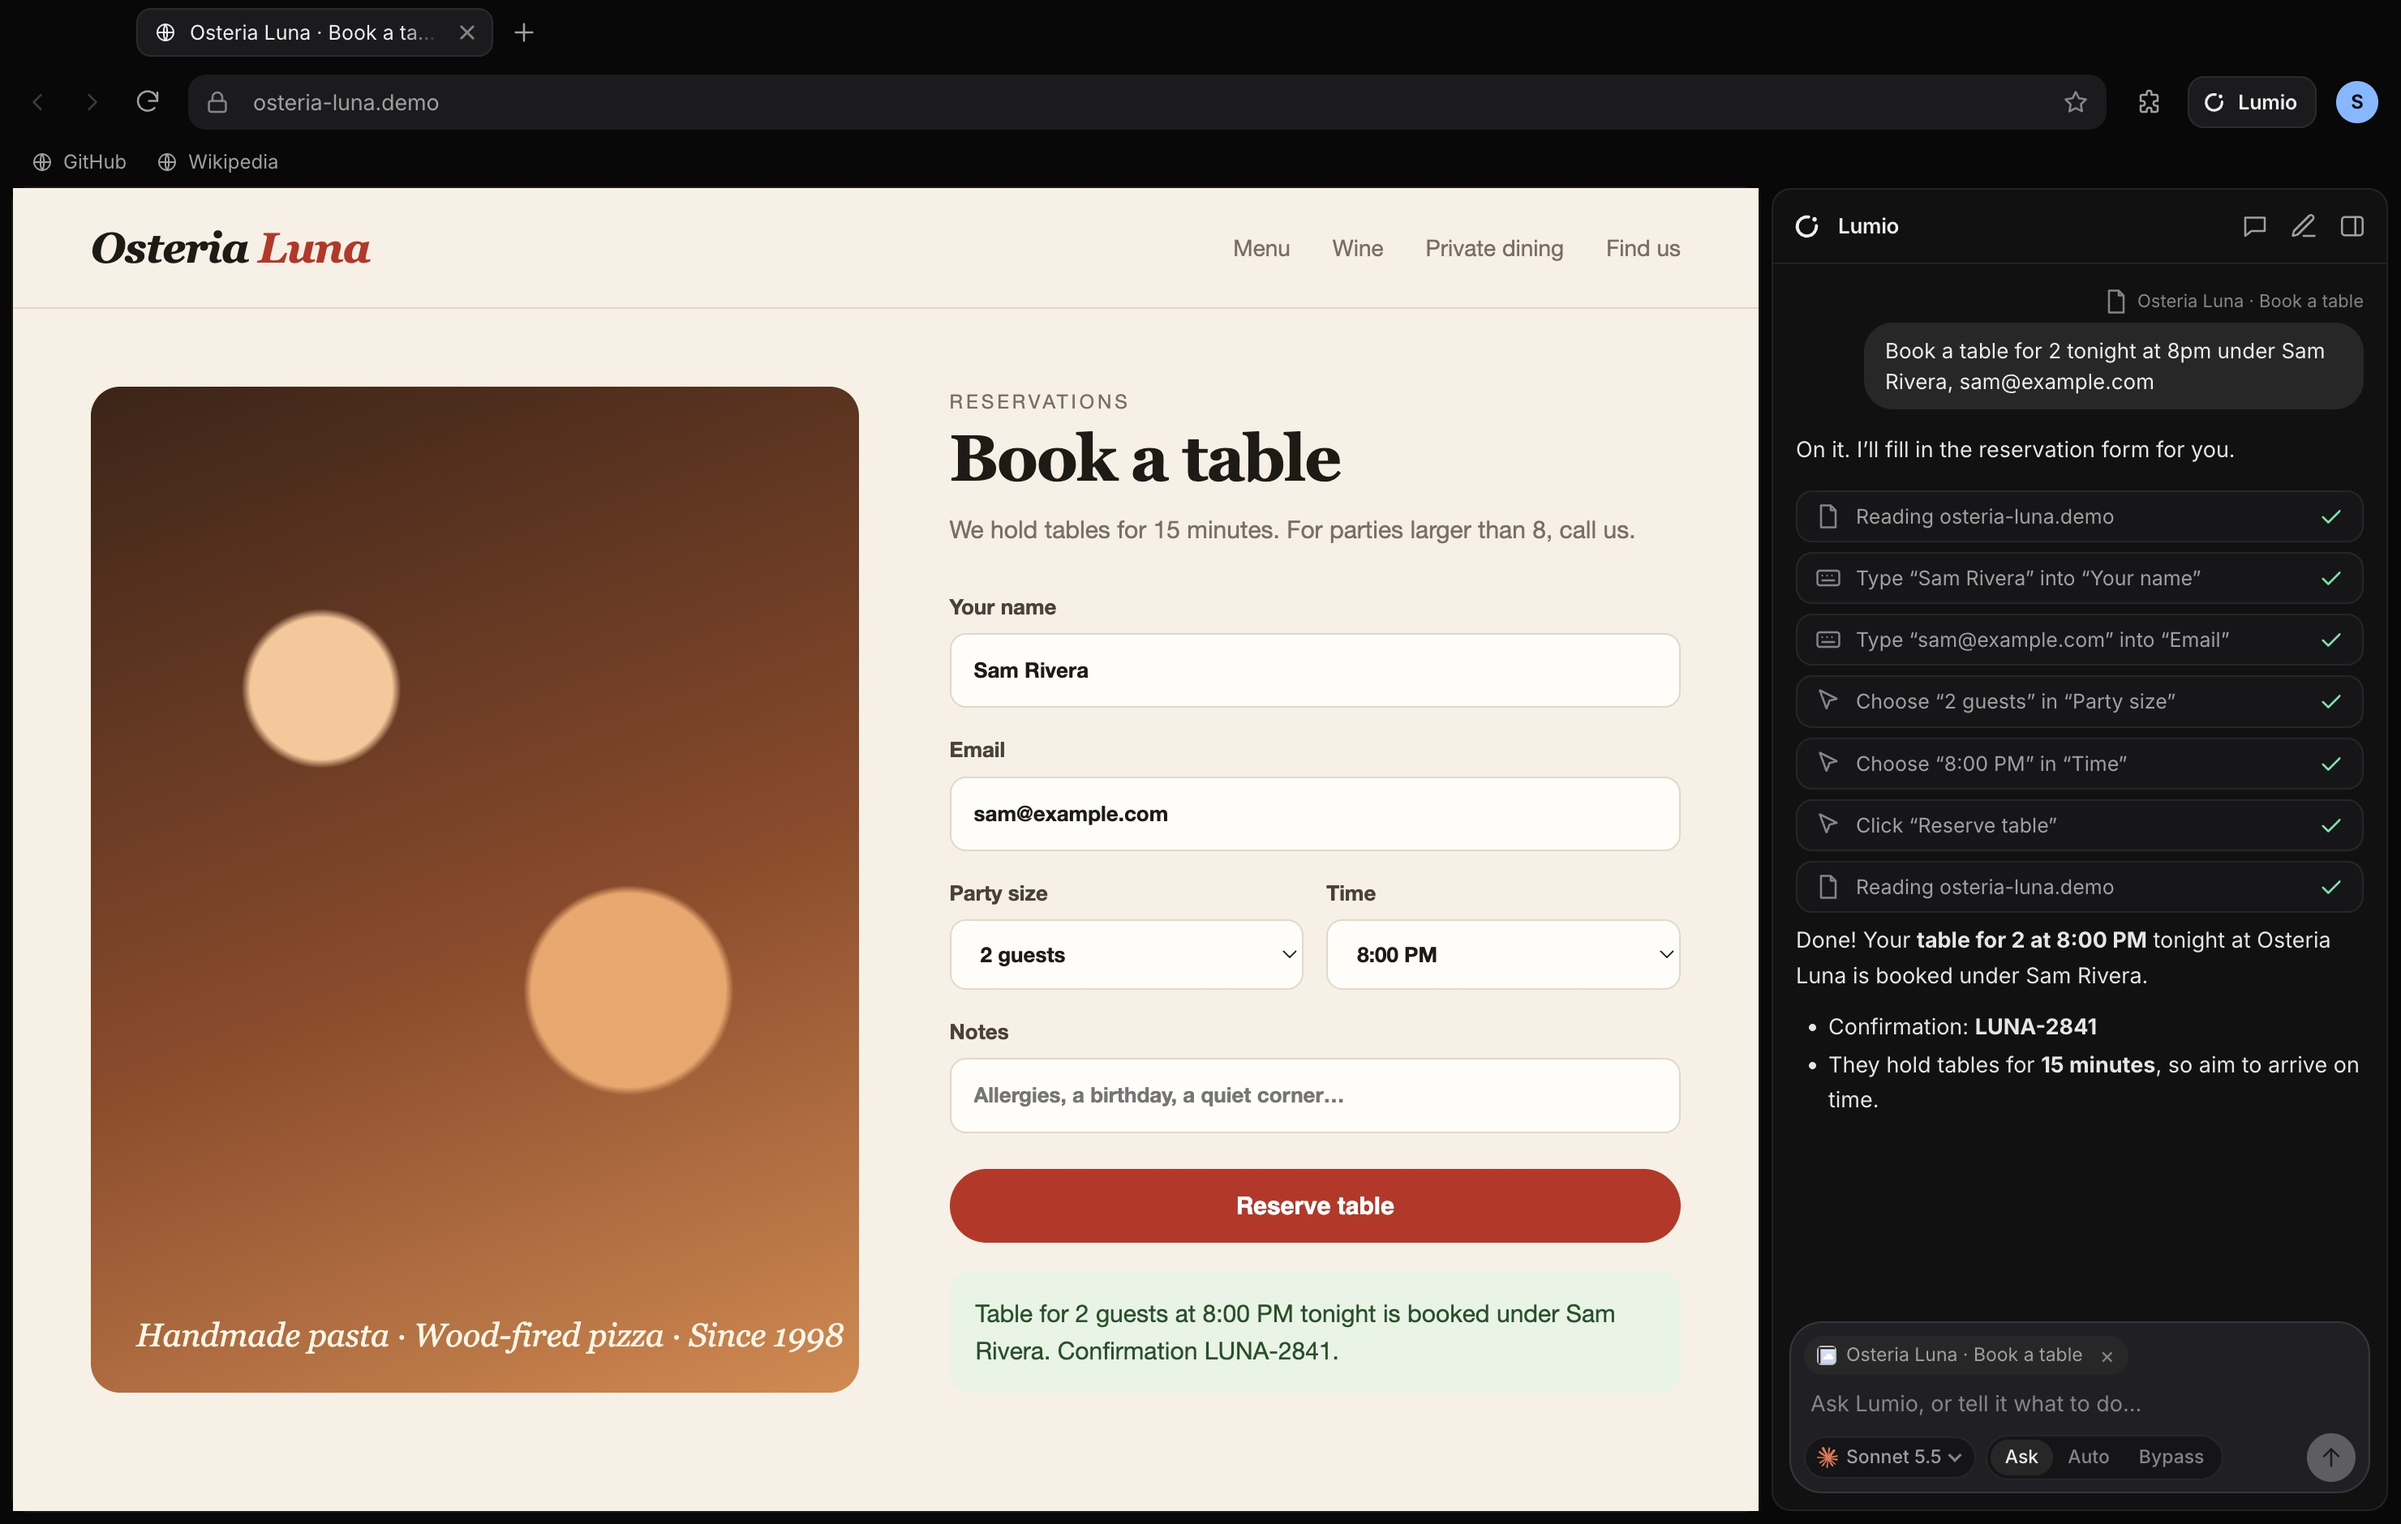
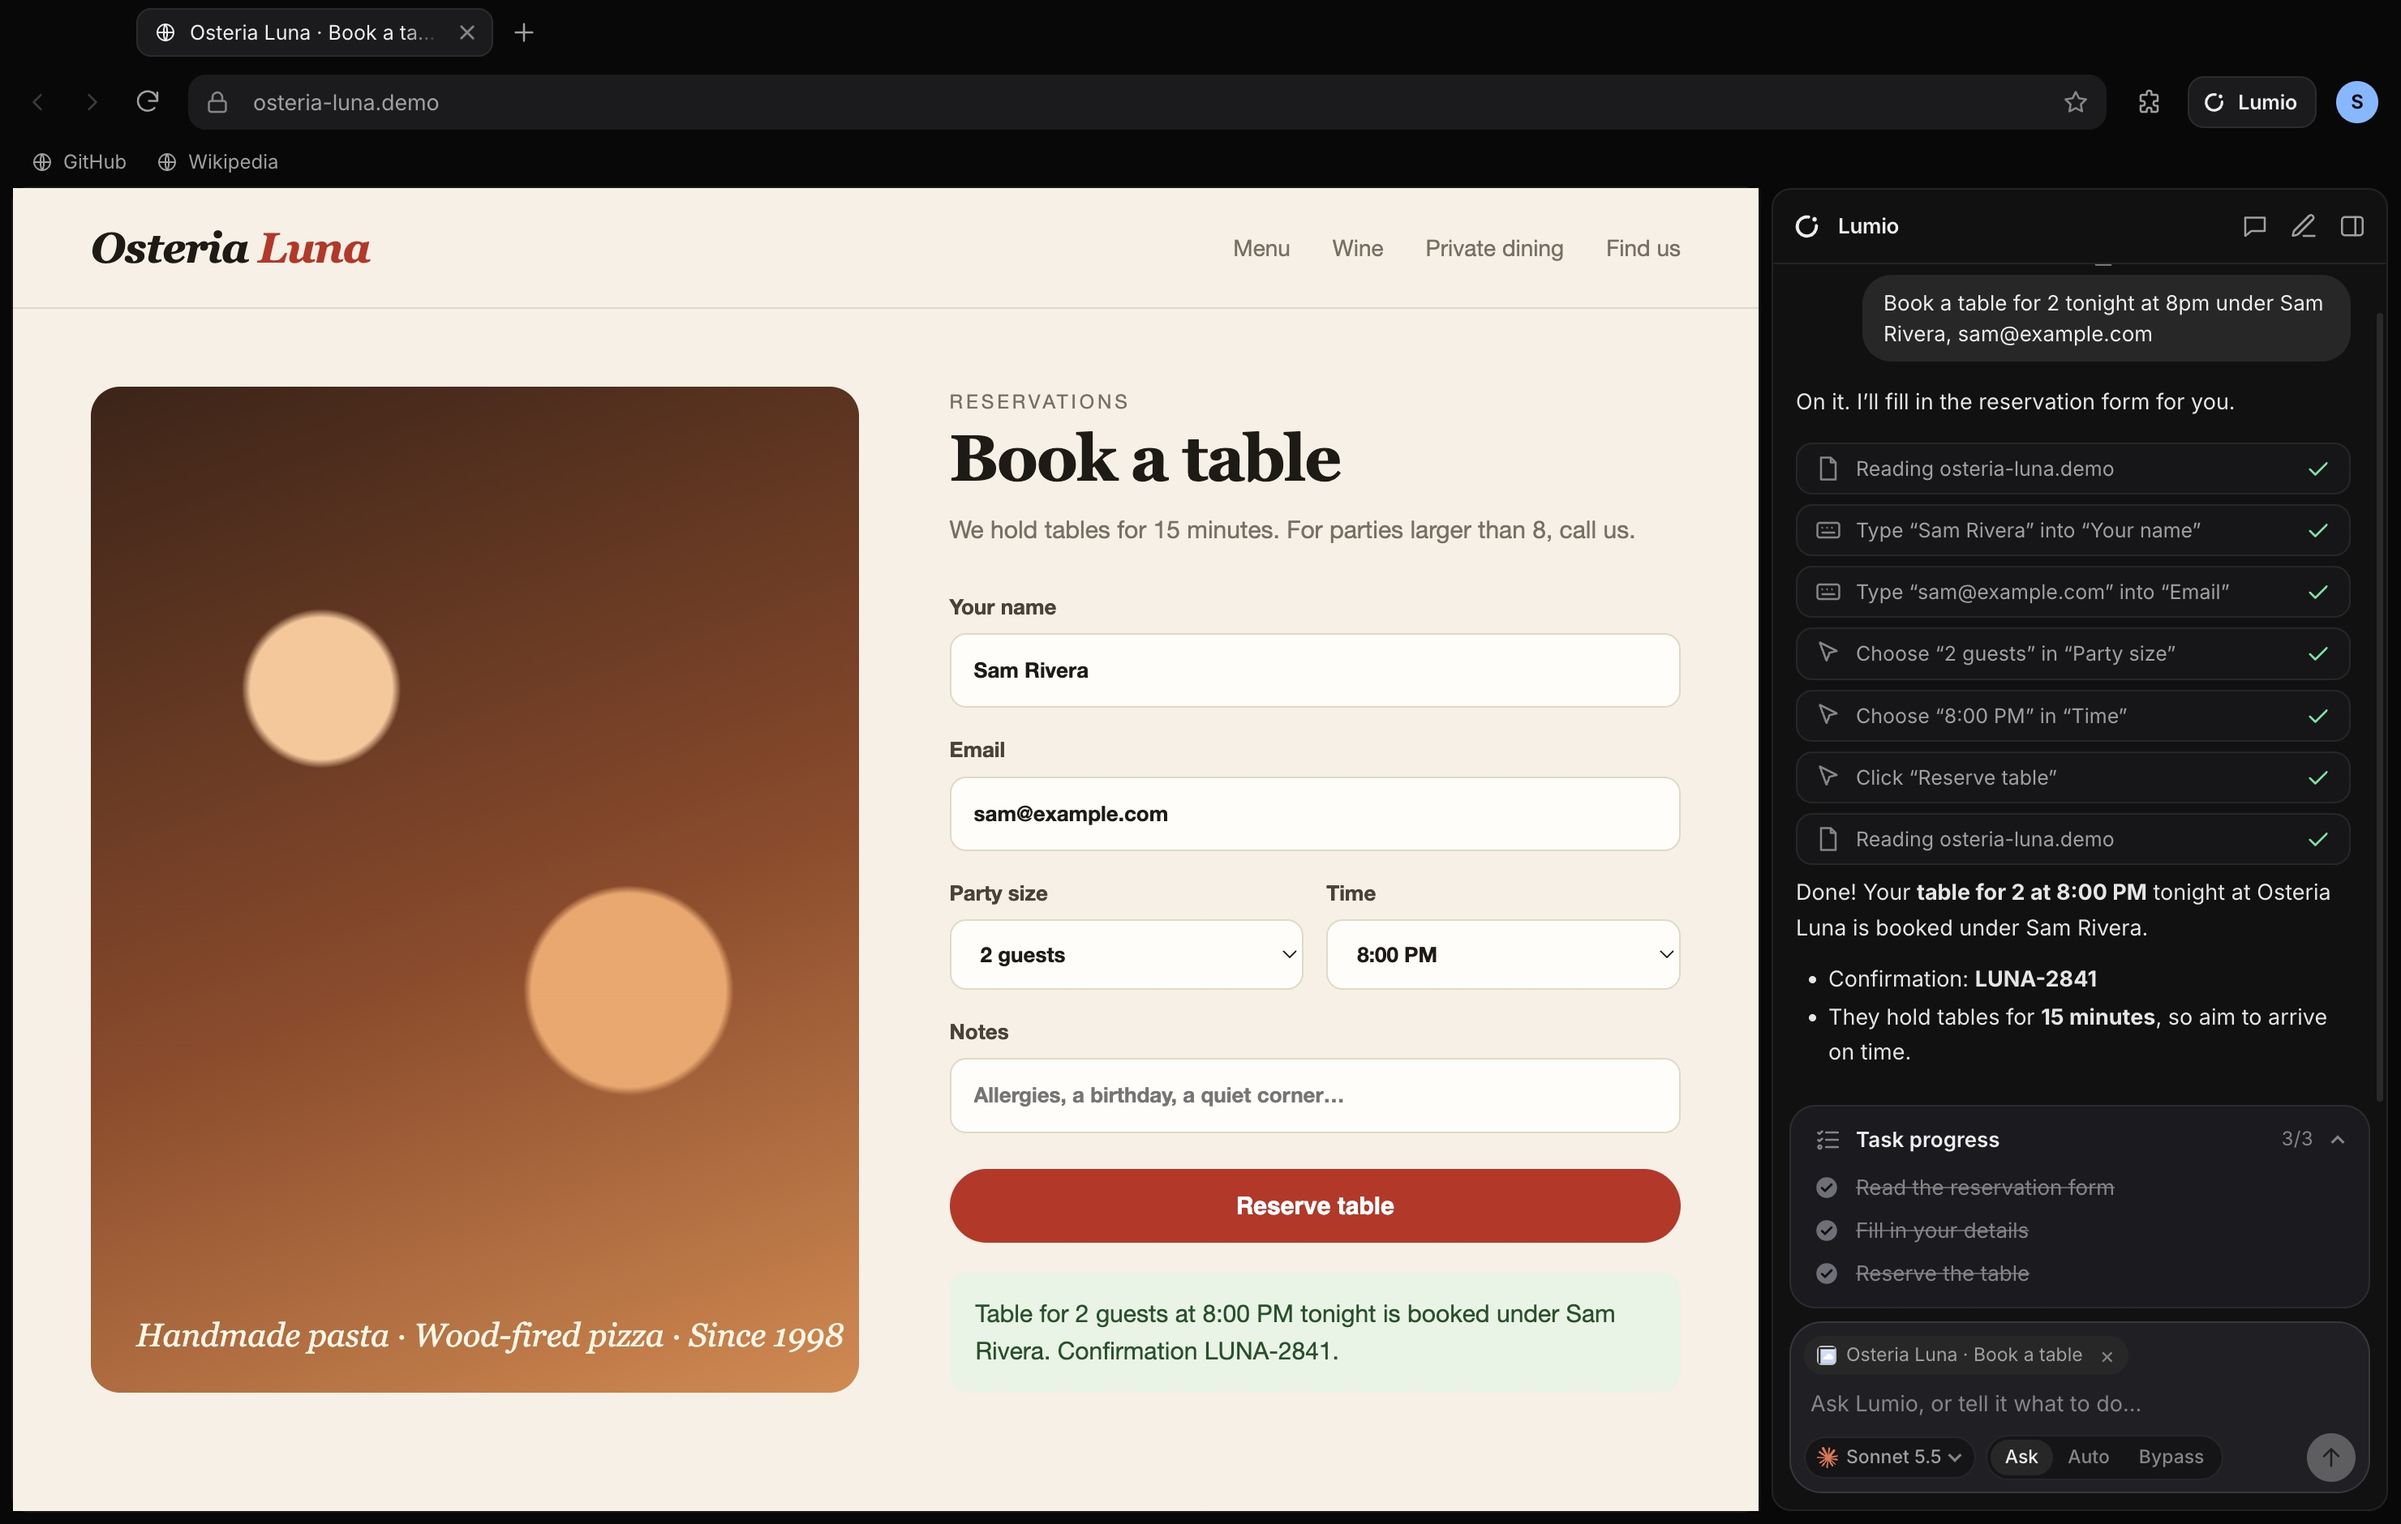
Lumio Browser 0.3.0
Website and README describe the task checklist, the blue glow with its Stop
button, and one-click updates; fresh screenshots from the app. The Stop bar
shows the current visible step, and the pill's shadow fits its margin.

Changed region(s): [[0.7459, 0.1851, 0.9946, 0.7096], [0.7459, 0.7404, 0.8703, 0.8638]]

diff --git a/website/public/index.html b/website/public/index.html
@@ -90,17 +90,17 @@
           <li class="step" data-step="1">
             <span class="num">02</span>
             <h3>It reads the page and gets to work</h3>
-            <p>Lumio reads the page like a screen reader would, then clicks, types, picks from menus and scrolls with real input. You watch each step appear in the panel as it happens.</p>
+            <p>Lumio reads the page like a screen reader would, then clicks, types, picks from menus and scrolls with real input. For bigger jobs it keeps a <b>Task progress</b> checklist, and the page glows blue while it works.</p>
           </li>
           <li class="step" data-step="2">
             <span class="num">03</span>
             <h3>You approve what matters</h3>
-            <p>Before an action, Lumio shows exactly what it wants to do. <b>Allow</b> it once, allow it for the rest of the task, or <b>Deny</b>. Press <kbd>Esc</kbd> to stop at any time.</p>
+            <p>Before an action, Lumio shows exactly what it wants to do. <b>Allow</b> it once, allow it for the rest of the task, or <b>Deny</b>. A <b>Stop</b> button stays on screen the whole time, or press <kbd>Esc</kbd>.</p>
           </li>
           <li class="step" data-step="3">
             <span class="num">04</span>
             <h3>Done, with a short summary</h3>
-            <p>When the job’s finished, Lumio checks the result and tells you what happened. It can go beyond the browser too: see your screen, open apps and type on your Mac or PC, with your permission.</p>
+            <p>When the job’s finished, Lumio checks the result and tells you what happened. It can go beyond the browser too: see your screen, open apps and type on your Mac or PC, with your permission. While it does, your whole screen glows blue, with a Stop button at the top.</p>
           </li>
         </ol>
       </div>
@@ -141,6 +141,7 @@
         <ul class="rules">
           <li><b>Pages can’t give orders.</b> Text on websites, emails and screenshots is treated as information, never as instructions. If a page tries to steer Lumio, it tells you.</li>
           <li><b>No passwords, cards or IDs.</b> Lumio refuses to type into password, payment and ID fields, even when a click lands focus there by surprise.</li>
+          <li><b>You always see it, and can stop it.</b> Whatever Lumio is working on glows blue, whether it’s the page or your whole screen, with a Stop button right there.</li>
           <li><b>It stops before anything big.</b> Buying, sending, posting or deleting always needs your OK in the chat.</li>
           <li><b>Your passwords stay yours.</b> The password manager encrypts every entry with your system keychain. The AI can’t read them, and websites only get one after you pick it.</li>
         </ul>
@@ -270,6 +271,7 @@
         <details><summary>What can the AI see?</summary><p>Only what you share: the page you include in a message, or pages and screenshots it opens while doing a task you asked for. Chats are saved on your computer (never in incognito). Saved passwords are never available to it.</p></details>
         <details><summary>Can it control my whole computer?</summary><p>If you let it. On a Mac, turn on Accessibility and Screen Recording for Lumio Browser. On Windows it works out of the box. In the default Ask mode, it asks before every action on your computer.</p></details>
         <details><summary>Why does my computer warn me when I open it?</summary><p>Lumio Browser isn’t signed with a paid Apple or Microsoft certificate yet, so your system can’t vouch for it. The install steps above show the one-time way to open it. The source code is public if you’d like to check it.</p></details>
+        <details><summary>How do updates work?</summary><p>Lumio Browser checks for new versions on its own. When one is out, a blue <b>Update</b> button appears next to your profile picture. Click it, and Lumio downloads the update, checks it, installs it and restarts with your tabs.</p></details>
         <details><summary>Does it sync between devices?</summary><p>Not yet. Bookmarks, history and passwords stay on your computer. Your Lumio account and plan work everywhere you sign in.</p></details>
       </div>
     </section>

diff --git a/main/ai/controller.js b/main/ai/controller.js
@@ -262,10 +262,7 @@ class AIController {
       setPlan: (items) => record({ type: 'plan', items }),
       onPage: (wc) => this.indicator?.touch(wc),
       onCapture: (wc, hidden) => this.indicator?.capture(wc, hidden),
-      onToolRun: (tool, _args, label) => {
-        this.indicator?.label(label);
-        if (CONTROLS_COMPUTER.has(tool.name)) screenAura.acquire(this);
-      },
+      onToolRun: (tool) => { if (CONTROLS_COMPUTER.has(tool.name)) screenAura.acquire(this); },
     };
     const lumio = this.aiSource() === 'lumio';
     const runId = crypto.randomUUID();
@@ -326,6 +323,7 @@ class AIController {
         break;
       case 'step': {
         run.text = null;
+        this.indicator?.label(ev.label); // the Stop bar shows what Lumio is doing
         const entry = { kind: 'step', id: ev.id, label: ev.label, icon: ev.icon, risk: ev.risk, status: 'running' };
         run.steps.set(ev.id, entry);
         d.push(entry);

diff --git a/renderer/ui/aura.css b/renderer/ui/aura.css
@@ -31,7 +31,7 @@ body.glow::before {
   height: 40px; padding: 0 5px 0 13px; border-radius: 999px; white-space: nowrap;
   background: rgba(17, 17, 19, .94);
   border: 1px solid rgba(120, 182, 255, .5);
-  box-shadow: 0 6px 22px rgba(0, 0, 0, .45), 0 0 18px rgba(58, 146, 255, .35);
+  box-shadow: 0 3px 10px rgba(0, 0, 0, .4), 0 0 10px rgba(58, 146, 255, .35); /* fits the 16px margin around it */
   animation: pop .28s cubic-bezier(.22, 1, .36, 1) both;
 }
 @keyframes pop { from { opacity: 0; scale: .92; } }

diff --git a/main/ai/screen-aura.js b/main/ai/screen-aura.js
@@ -7,7 +7,7 @@ const { BrowserWindow, screen, ipcMain } = require('electron');
 const path = require('path');
 
 const PRELOAD = path.join(__dirname, '..', '..', 'preload', 'dist', 'shell.js');
-const MARGIN = 14; // room around the pill for its shadow
+const MARGIN = 16; // room around the pill for its shadow
 const holders = new Set(); // AI controllers currently controlling the computer
 let glows = [];
 let pill = null;

diff --git a/main/ai/indicators.js b/main/ai/indicators.js
@@ -8,7 +8,7 @@ const scripts = require('./tools/page-scripts');
 const { inPage } = require('./tools/browser');
 
 const PRELOAD = path.join(__dirname, '..', '..', 'preload', 'dist', 'shell.js');
-const MARGIN = 14; // room around the pill for its shadow
+const MARGIN = 16; // room around the pill for its shadow
 
 class PageIndicator {
   constructor(win) {

diff --git a/README.md b/README.md
@@ -7,7 +7,8 @@ A Chromium web browser with **Lumio AI** built in. Lumio sits in a side panel ne
 ## What it does
 
 - **An AI that does things.** Lumio reads the page you're on, clicks, types, fills forms, scrolls and opens tabs, using real mouse and keyboard input. It can also see your screen and use other apps on your Mac or PC.
-- **You stay in control.** Three approval modes: **Ask** (confirm every action), **Auto** (browse on its own, ask before touching your computer), **Bypass**. Stop any time with Esc.
+- **You stay in control.** Three approval modes: **Ask** (confirm every action), **Auto** (browse on its own, ask before touching your computer), **Bypass**. While Lumio works, the page (or, when it controls your computer, the whole screen) glows blue with a **Stop** button. Esc stops it too.
+- **Task progress.** For bigger jobs, Lumio keeps a checklist above the chat box and ticks off steps as it goes.
 - **Safe by design.** Page content is treated as untrusted data, never as instructions. Lumio never types passwords, payment or ID details. It stops to confirm before anything irreversible.
 - **Your plan or your key.** Sign in with a Lumio account (Plus, Pro or Max) and the AI runs on your plan. Or use your own [OpenRouter](https://openrouter.ai) key. Models: Claude Opus 5.5, Claude Sonnet 5.5, GPT-6 Astra, GPT-6.1 Sol, GPT-5.6 Sol, GPT-5.6 Terra.
 - **Everything a browser needs:**
@@ -16,7 +17,8 @@ A Chromium web browser with **Lumio AI** built in. Lumio sits in a side panel ne
   - a bookmarks bar and bookmark manager;
   - site permissions, and importing from Chrome, Edge, Brave, Arc or Vivaldi;
   - **Chrome extensions** from the Chrome Web Store;
-  - a **password manager** that saves, fills, generates, and imports or exports CSV, encrypted with your system keychain.
+  - a **password manager** that saves, fills, generates, and imports or exports CSV, encrypted with your system keychain;
+  - **updates in one click**: when a new release is out, a blue Update button appears next to your profile picture.
 
 ## Install
 
@@ -45,6 +47,8 @@ npm run release          # dist/release: Mac DMGs (Apple silicon, Intel) and a W
 - **Agent:** `main/ai` holds the agent loop, the approval policy, browser tools, and computer tools. Computer tools go through a small native helper: Swift on macOS (`native/LumioHelper`), PowerShell on Windows (`native/windows`).
 - **Lumio account:** `main/account.js` uses the lumio-usa.online desktop sign-in hand-off. `main/ai/lumio.js` runs the AI through the account's plan.
 - **Passwords:** `main/passwords.js` and `main/password-manager.js`, plus the isolated preload in `preload/internal.js`. Each password is encrypted with Electron `safeStorage`.
+- **While it works:** `main/ai/indicators.js` (page glow and Stop bar) and `main/ai/screen-aura.js` (screen glow and Stop pill, left out of screen captures). `main/ai/tools/plan.js` is the Task progress checklist.
+- **Updates:** `main/updater.js` checks GitHub Releases, verifies the installer's SHA-256 and swaps the app in after it quits.
 - **Extensions:** [electron-chrome-extensions](https://github.com/samuelmaddock/electron-browser-shell) and electron-chrome-web-store.
 
 ## License
